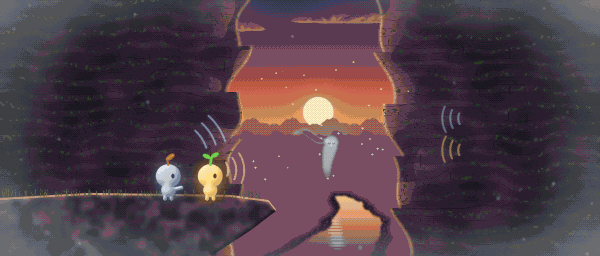
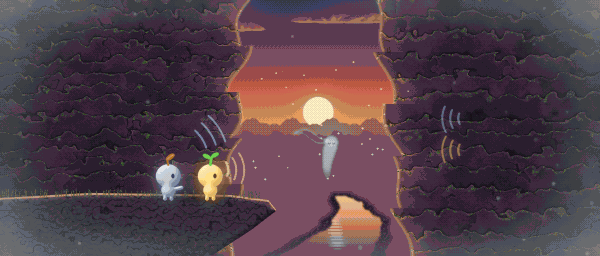
Ilustración de la Cañada del Eco: paredes de roca en capas con luz en los cantos (antes una masa borrosa)

diff --git a/herramientas/cinematicas_sendero.py b/herramientas/cinematicas_sendero.py
@@ -682,26 +682,49 @@ def _ondas(lz, cx, cy, radios, ang0, ang1, color, alfa):
 
 def _pared_garganta(lz, borde, lado, semilla):
     """Una pared de la garganta, de roca a contraluz. borde(y) da el filo interior; lado -1 = pared izquierda.
-    Caras planas (facetas), estratos, grietas verticales y el filo encendido por el sol poniente."""
+    Hecha de CAPAS de roca apiladas (estratos), cada una partida en bloques por grietas verticales: el canto de arriba
+    de cada capa coge la luz, debajo hay sombra, y la cara que da al hueco de la garganta se enciende con el sol."""
+    rng = np.random.default_rng(semilla)
     ys = np.arange(lz.H) / lz.s
     filo_x = np.array([borde(y) for y in ys])[:, None]
     dentro = (lz.x < filo_x) if lado < 0 else (lz.x > filo_x)
     m = dentro.astype(float)
     dist = np.abs(lz.x - filo_x)                                    # lo lejos que está del filo
-    faceta = np.floor(lz.ruido(26, 2, semilla=semilla) * 6) / 6     # caras planas de la roca
-    estratos = np.sin((lz.y + (lz.ruido(30, 2, semilla=semilla + 1) - 0.5) * 10) * 0.42) * 0.5 + 0.5
-    v = 0.18 + faceta * 0.22 + (estratos - 0.5) * 0.08 + np.clip(1 - dist / 70, 0, 1) * 0.25
+    # las capas: alturas distintas, y cada una con sus bloques desplazados (así no hay una cuadrícula)
+    cortes = [-4.0]
+    while cortes[-1] < 260:
+        cortes.append(cortes[-1] + rng.uniform(11, 24))
+    cortes = np.array(cortes)
+    yo = lz.y + (lz.ruido(9, 2, semilla=semilla + 7) - 0.5) * 9 + np.sin(lz.x * 0.05 + semilla) * 2   # juntas onduladas
+    capa = np.clip(np.searchsorted(cortes, yo) - 1, 0, len(cortes) - 2)
+    y0, y1 = cortes[capa], cortes[capa + 1]
+    t = np.clip((yo - y0) / (y1 - y0), 0, 1)                        # 0 arriba de la capa, 1 abajo
+    anchos = rng.uniform(34, 90, len(cortes))
+    despl = rng.uniform(0, 40, len(cortes))
+    tono = rng.uniform(-0.06, 0.06, (len(cortes), 64))
+    u_ = (lz.x + despl[capa] + (lz.ruido(6, 2, semilla=semilla + 8) - 0.5) * 16 + t * rng.uniform(-6, 6)) / anchos[capa]
+    bloque = np.floor(u_).astype(int) % 64
+    u = u_ - np.floor(u_)                                            # 0..1 a lo ancho del bloque
+    hacia_luz = (1 - u) if lado > 0 else u                           # el lado del bloque que mira al hueco
+    v = 0.3 + tono[capa, bloque] + (lz.ruido(14, 2, semilla=semilla + 9) - 0.5) * 0.12
+    v = v + np.clip(1 - t / 0.16, 0, 1) * 0.26                       # el canto de arriba, con luz
+    v = v - np.clip((t - 0.78) / 0.22, 0, 1) * 0.16                  # la sombra de abajo
+    v = v + np.clip((hacia_luz - 0.85) / 0.15, 0, 1) * 0.1
+    v = v + np.clip(1 - dist / 70, 0, 1) * 0.22 + (lz.ruido(1.2, 2, semilla=semilla) - 0.5) * 0.08
     lz.pintar(m, rampa(["#120a14", "#1e1220", "#2e1c2e", "#44283a", "#5e3646", "#80485a", "#a8606a"], np.clip(v, 0, 1)))
-    # la cara que mira al sol (cerca del filo) se enciende de naranja
-    lz.sumar_luz(m * np.clip(1 - dist / 26, 0, 1) * (faceta > 0.4), "#e08050", 0.35)
-    grietas = np.abs(np.sin(lz.x * 0.21 + lz.ruido(8, 2, semilla=semilla + 2) * 6)) < 0.05
-    lz.pintar(m * grietas * (lz.ruido(12, 2, semilla=semilla + 3) > 0.45), "#0c060e", 0.8)
-    lz.pintar(m * (np.abs(estratos - 0.5) < 0.035), "#0c060e", 0.5)
+    rota = (tono[capa, bloque] > -0.01)                              # solo algunos bloques están partidos
+    grieta = (u < 0.035) & rota & (lz.ruido(4, 2, semilla=semilla + 2) > 0.3)
+    lz.pintar(m * grieta, "#0c060e", 0.7)
+    lz.pintar(m * (t > 0.93) * (lz.ruido(5, 2, semilla=semilla + 6) > 0.25), "#0c060e", 0.55)   # la junta entre capas
+    # la cara que mira al sol (cerca del filo) y el canto de cada capa se encienden de naranja
+    lz.sumar_luz(m * np.clip(1 - dist / 30, 0, 1) * np.clip(1 - t / 0.2, 0, 1), "#f09060", 0.5)
+    lz.sumar_luz(m * np.clip(1 - dist / 24, 0, 1), "#e08050", 0.2)
     filo = m * (dist < 1.6)
     lz.sumar_luz(lz.desenfocar(filo, 1.0), "#f9b070", 0.9)
-    # matas de hierba en los salientes
-    matas = np.clip((lz.ruido(2.5, 2, semilla=semilla + 4) - 0.74) * 6, 0, 1) * m * (estratos > 0.85)
+    # matas de hierba en los cantos de las capas
+    matas = (lz.ruido(1.5, 2, semilla=semilla + 4) > 0.68) * m * (t < 0.12)
     lz.pintar(matas, "#2e3a24", 0.9)
+    lz.pintar(matas * (lz.ruido(0.6, 1, semilla=semilla + 5) > 0.6), "#5a6a34", 0.8)
     return m
 
 
@@ -738,7 +761,7 @@ def eco_canada():
     YC = 196
     cornisa = lz.poligono([(0, YC + 2), (90, YC - 3), (230, YC - 1), (268, YC + 4), (276, YC + 14), (250, 230), (210, 256), (0, 256)])
     lz.sombrear(cornisa, ["#120a14", "#1e1420", "#2e2030", "#46303e", "#6a4650", "#9a6a60"], 6, (0.6, -0.8, 0.5),
-                textura=np.floor(lz.ruido(10, 2, semilla=187) * 5) / 5, fuerza_tex=0.4)
+                textura=(np.sin((lz.y + lz.ruido(6, 2, semilla=187) * 8) * 0.8) > 0.85) * -1.0 + lz.ruido(2, 2, semilla=188) * 0.5, fuerza_tex=0.3)
     filo_c = np.clip(cornisa - np.roll(cornisa, int(2 * lz.s), axis=0), 0, 1)
     lz.sumar_luz(filo_c, "#f9a060", 0.7)
     hierba = np.zeros((lz.H, lz.W))

diff --git a/documentacion/decisiones.md b/documentacion/decisiones.md
@@ -193,3 +193,4 @@ se pasan.
 | Manchas en los ecos | Los ecos (noche, agua, niebla) se veían sucios: la paleta no tenía esos tonos y los degradados saltaban a gris en manchas. Se añadieron 5 rampas a la paleta de cinemáticas (agua honda, verde agua, bruma, malva y nieve: 210 colores) y el marco de niebla de los recuerdos pasa a ser un velo suave hecho con la propia escena desenfocada |
 | El Primer Árbol en los ecos 15 y 23 | Era una nube amarilla con un palo; ahora usa el mismo árbol de racimos dorados, tronco y raíces que el primer eco (`_primer_arbol` llama a `_arbol_dorado`) |
 | La pared de la Cañada en el 17 | Era un polígono negro plano; ahora es roca con escalones, estratos, grietas, un canto iluminado por el horizonte y hierbas arriba |
+| Las paredes de la Cañada (16) | Eran una masa oscura borrosa; ahora son capas de roca apiladas con juntas onduladas, el canto de cada capa con luz y hierba, sombra debajo, algunas grietas y la cara del hueco encendida por el sol |
